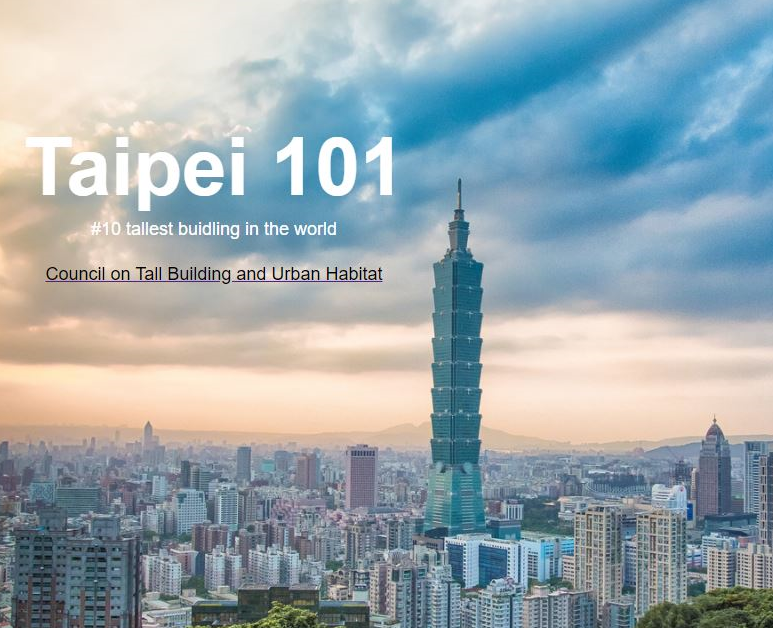
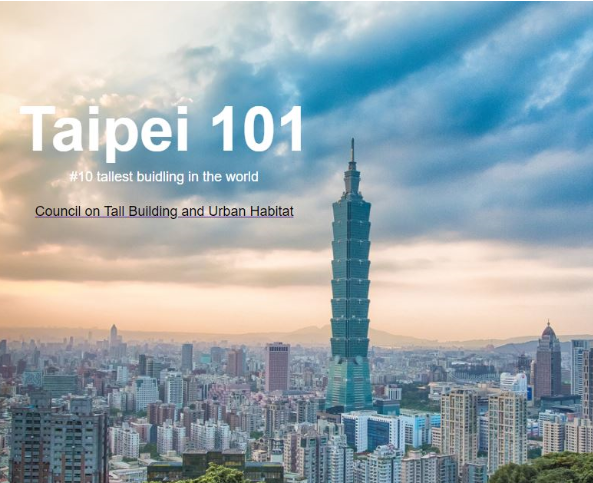
adjusted the layout, alignment and sizing of grids

diff --git a/project.html b/project.html
@@ -58,209 +58,223 @@
         </div>
       </div>
     </nav>
-    <div class="container d-flex">
+    <div class="container">
       <div class="row">
         <h1 id="topic">Projects</h1>
         <div class="row">
-          <div class="col-4 border ">
+          <div class="col-md-4 border ">
             <h3>Weather App</h3>
-            <div><a
-              href="https://suspicious-euclid-0328ab.netlify.app/"
-              target="_blank"
-            >
+            <div class="d-flex align-content-around flex-wrap justify-content-center">
               <img
                 class="img-fluid  rounded-3 mx-auto d-block"
                 src="/images/weather.PNG"
                 alt="my-weather-app"
                 title="link to my website"
               />
-            </a></div>
-            <div ><h4>
+              <div >
+             <a
+              href="https://suspicious-euclid-0328ab.netlify.app/"
+              target="_blank"
+            > <button type="button" class="btn btn-secondary m-4">live site</button></a>
+            </div>
+            </div>
+            <div class="d-flex align-self-center">
+              <h5>
               using up-to-date datas provided by
               <a href="https://openweathermap.org/api" target="_blank"
                 >OpenWeather</a
               >, giving you the lastest temperature of all the city around the
               world
-            </h4></div>
-            
+            </h5>
           </div>
-          <div class="col-4 border">
+          </div>
+
+          <div class="col-md-4 border">
             <h3>Taipei</h3>
-            <div><a href="#" target="_blank"
-              ><img
+            <div class="d-flex align-content-around flex-wrap justify-content-center">
+              <img
                 class="img-fluid rounded-3 mx-auto d-block"
                 src="/images/Taipei101.PNG"
                 alt="Taipei-101"
-            /></a></div>
-            
-            <div><h4>
-              brief introduction about the capital city of Taiwan, plus 3 fun
+            /></a>
+            <div >
+              <a href="#" target="_blank"
+              ><button type="button" class="btn btn-secondary m-4">live site</button></a>
+             </div>
+            </div>
+            <div class="d-flex  align-self-center">
+              <h5>
+              brief introduction about the capital city of Taiwan, plus Q&A about it
               facts about it 
-            </h4></div>
-            
+            </h5>
           </div>
-          <div class="col-4 border ">
-            <h3>Croissant </h3>
-            <div> <a
-              href="https://hardcore-curran-bc45fb.netlify.app/"
-              target="_blank"
-              title="link to my website"
-            >
-              <img
-                class="img-fluid rounded-3 mx-auto d-block"
-                src="https://i.guim.co.uk/img/media/c11fff1999e9416379a53584af7ce36aed1497e2/0_311_5184_3110/500.jpg?quality=85&auto=format&fit=max&s=bb912d6310651581c9fc29041418ef80"
-                alt="Croissant"
-            /></a></div>
-           
-            <div><h4>
-              check out my favorite in Freising, Germany
-              <br />
+          </div>
 
+          <div class="col-md-4 border ">
+            <h3>Croissant </h3>
+            <div class="d-flex align-content-around flex-wrap justify-content-center"> 
+              <img
+                class="img-fluid rounded mx-auto d-block "
+                src="/images/crossiant.PNG"
+                alt="Croissant"/>
+            <div >
+              <a
+            href="https://hardcore-curran-bc45fb.netlify.app/"
+            target="_blank"
+            title="link to my website"
+          ><button type="button" class="btn btn-secondary m-4">live site</button></a>
+             </div>
+            </div>
+            <div class="d-flex align-self-center">
+              <h5>
+              one of my favourite passtriy for breakfast or during the coffee break. Check out my <i class="fas fa-heart"></i> in Freising, Germany
+              <br />😋
               <span title="🖱go to their website"
                 ><a href="https://www.andreas-muschler.de/" target="_blank">
-                  Andreas Muschler <i class="fas fa-heart"></i></a
-                ></span
-              >
-            </h4></div>
-            
+                  Andreas Muschler </a
+                ></span>
+            </h5></div>
           </div>
         </div>
-        
-          <div class="row ">
+  
+          <div>
             <h1 id="topic">Skills & technologies</h1>
-            <div class="col-2 mb-3 p-0 center">
+            <div class="row d-flex justify-content-center">
+            <div class="col-2 mb-3 p-0 center" id="skills">
               <img
               class="img-fluid center block mb-2 pl-3 pr-3 rounded "
               src="https://upload.wikimedia.org/wikipedia/commons/thumb/6/61/HTML5_logo_and_wordmark.svg/1200px-HTML5_logo_and_wordmark.svg.png"
                 alt="html"
-                id="skills"
               />
               <small class="block center technology">
                 HTML
               </small>
             </div>
-            <div class="col-2 mb-3 p-0 center">
+            <div class="col-2 mb-3 p-0 center"id="skills">
               <img
               class="img-fluid center block mb-2 pl-3 pr-3 rounded "
                 src="https://upload.wikimedia.org/wikipedia/commons/thumb/d/d5/CSS3_logo_and_wordmark.svg/1200px-CSS3_logo_and_wordmark.svg.png"
                 alt="css"
-                id="skills"
+                
               />
               <small class="block center technology">
                 CSS
               </small>
             </div>
-            <div class="col-2 mb-3 p-0 center">
+            <div class="col-2 mb-3 p-0 center" id="skills">
               <img
               class="img-fluid center block mb-2 pl-3 pr-3 rounded "
                 src="https://upload.wikimedia.org/wikipedia/commons/d/d4/Javascript-shield.svg"
                 alt="Javascript"
-                id="skills"
+               
               />
               <small class="block center technology">
                 Javascript
               </small>
             </div>
-            <div class="col-2 mb-3 p-0 center">
+            </div>
+            <div class="row d-flex justify-content-center">
+            <div class="col-2 mb-3 p-0 center"id="skills">
               <img
               class="img-fluid center block mb-2 pl-3 pr-3 rounded "
                 src="https://www.shecodes.io/assets/logos/technologies/editor-ef3d938168e4f16659b3579e8391c37b6ed45eb4e48039eb12cf809e78373e39.png"
                 alt="Editor"
                 title="Editor"
-                id="skills"
+                
               />
               <small class="block center technology">
                 Editor
               </small>
             </div>
-            <div class="col-2 mb-3 p-0 center">
+            <div class="col-2 mb-3 p-0 center"id="skills">
               <img
               class="img-fluid center block mb-2 pl-3 pr-3 rounded"
                 src="https://www.shecodes.io/assets/logos/technologies/api-9e84996c74ba6596c023b463b644d368ad5c5e5be33d7030ea974aaead1aa1e5.png"
                 alt="API"
-                id="skills"
+                
               />
               <small class="block center technology">
                 API
               </small>
             </div>
-            <div class="col-2 mb-3 p-0 center">
+            <div class="col-2 mb-3 p-0 center" id="skills">
               <img
               class="img-fluid center block mb-2 pl-3 pr-3 rounded"
                 src="https://www.shecodes.io/assets/logos/technologies/github-0c01b3f41bc7d3879240b614f7c6156184d4bc99184db50a3b465d1171ca4bb0.png"
                 alt="GitHub"
-                id="skills"
+               
               />
               <small class="block center technology">
                 GitHub
               </small>
             </div>
-            <div class="col-2 mb-3 p-0 center">
+            </div>
+            <div class="row d-flex justify-content-center">
+            <div class="col-2 mb-3 p-0 center"id="skills">
               <img
               class="img-fluid center block mb-2 pl-3 pr-3 rounded"
                 src="https://upload.wikimedia.org/wikipedia/commons/thumb/b/b2/Bootstrap_logo.svg/1200px-Bootstrap_logo.svg.png"
                 alt="Booststrap"
-                id="skills"
+                
               />
               <small class="block center technology">
                 Booststrap
               </small>
             </div>
-            <div class="col-2 mb-3 p-0 center">
+            <div class="col-2 mb-3 p-0 center" id="skills">
               <img
               class="img-fluid center block mb-2 pl-3 pr-3 rounded"
                 src="https://www.shecodes.io/assets/logos/technologies/hosting-4fed816570be84c2ca333b734dcdc11c7206659a9532e3db414cf50fdfde8685.png"
                 alt="Hosting"
-                id="skills"
+               
               />
               <small class="block center technology">
                 Hosting
               </small>
             </div>
-            <div class="col-2 mb-3 p-0 center">
+            <div class="col-2 mb-3 p-0 center" id="skills">
               <img
               class="img-fluid center block mb-2 pl-3 pr-3 rounded"
                 src="https://www.shecodes.io/assets/logos/technologies/flexbox-e8145949d9f5fd7aa8cabfa612a73d3c069bd115cb0fa7a2f73f9cfb5b1a8eb1.png"
                 alt="Flexbox"
-                id="skills"
+                
               />
               <small class="block center technology">
                 Flexbox
               </small>
             </div>
-            <div class="col-2 mb-3 p-0 center">
+          </div>
+          <div class="row d-flex justify-content-center">
+            <div class="col-2 mb-3 p-0 center" id="skills">
               <img
               class="img-fluid center block mb-2 pl-3 pr-3 rounded"
                 src="https://www.shecodes.io/assets/logos/technologies/seo-e96310672f07334067bdecbdccfe65c39d5a178e886a8682bf9ae0555f11d529.png"
                 alt="SEO"
-                id="skills"
               />
               <small class="block center technology">
                 SEO
               </small>
             </div>
-            <div class="col-2 mb-3 p-0 center">
+            <div class="col-2 mb-3 p-0 center"  id="skills">
               <img
               class="img-fluid center block mb-2 pl-3 pr-3 rounded"
                 src="https://www.shecodes.io/assets/logos/technologies/responsive-bb3ce4b4a67108b0c547648b0b9da19711e8a30cb94626ebe2cf80697119e807.png"
                 alt="Responsive"
-                id="skills"
               />
               <small class="block center technology">
                 Responsive
               </small>
             </div>
-            <div class="col-2 mb-3 p-0 center">
+            <div class="col-2 mb-3 p-0 center" id="skills">
               <img
-             
               class="img-fluid center block mb-2 pl-3 pr-3 rounded"
               src="https://www.shecodes.io/assets/logos/technologies/react-600b92c82a6b987573201ac95a30d8fcd6789a803c473337aadb2c2865cb7919.png"
               alt="React"
-              id="skills"
               title="next to get ..."
             />
             <small class="block center technology">React</small>
        </div>
+      </div>
           </div>
         </div>
       </div>

diff --git a/css/styles.css b/css/styles.css
@@ -1,6 +1,3 @@
-body {
-}
-
 h1 {
   text-align: center;
   font-family: "Rye", cursive;
@@ -34,25 +31,21 @@ li {
 }
 
 h3,
-h4 {
+h5 {
   font-family: "Fredericka the Great", cursive;
   text-align: center;
   margin: 30px 0;
-}
-
-img {
-  max-width: 400px;
-}
-
-#check-out {
-  font-style: italic;
-  font-family: "Fredericka the Great", cursive;
-  text-align: center;
-  margin: 50px 0;
+  font-weight: 580;
 }
 
 #skills {
-  max-width: 60px;
+  max-width: 50px;
+}
+
+@media {
+  #skills {
+    margin-left: 40px !important;
+  }
 }
 
 footer {
@@ -63,4 +56,8 @@ footer {
 a {
   text-decoration: none;
   color: black;
+}
+
+button {
+  margin-bottom: -10px !important;
 }
